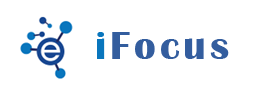
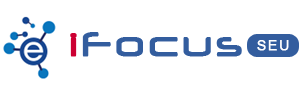
fix some details

Changed region(s): [[0.0, 0.1684, 1.0, 0.8421]]

diff --git a/app/scripts/detail.js b/app/scripts/detail.js
@@ -15,6 +15,9 @@
         ],
         function (ec) {
 
+            // Model predication dialog
+            var dialog;
+
             // DOM Elements
             var mainViewer = document.getElementById('main-viewer');
 
@@ -144,14 +147,23 @@
 
                 // TODO: query from database (x, y)
 
-                $.getJSON('../data/demo-model.json',function (json) {
-                    returnData.seriesData = json['result'];
-                    if (model !== undefined) {
-                        setGraphModel(model, returnData);
-                    } else {
-                        console.log("No model!!!");
-                    }
-                })
+                if (model === 'heatmap') {
+                    console.log(">>>"+model);
+                    setGraphModel(model, null);
+                } else {
+                    $.getJSON('../data/demo-model.json',function (json) {
+
+                        localStorage.setItem('currentData',JSON.stringify(json['result2']));//store data for bar graph
+
+                        returnData.seriesData = json['result'];
+
+                        if (model !== undefined) {
+                            setGraphModel(model, returnData);
+                        } else {
+                            console.log("No model!!!");
+                        }
+                    })
+                }
             }
 
             function refreshMainViewer() {
@@ -189,21 +201,34 @@
                     ecGraph.mainViewer.setOption(ecGraph.pieOption, {notMerger: true});
                     ecGraph.mainViewer.on(ecGraph.ecConfig.EVENT.CLICK, mainViewerClickHandler);
                 } else if (model ==='bar') {
-
-                    console.log(returnData.names);
                     ecGraph.barOption.xAxis[0].data = returnData.names;
-                    ecGraph.barOption.series[0].data = returnData['avgProduct'];
-                    ecGraph.barOption.series[1].data = returnData['avgCategory'];
+
+                    if (returnData['avgProduct'] === undefined) {
+                        ecGraph.barOption.series[0].name = "Share";
+                        ecGraph.barOption.series[0].data = returnData['seriesData'];
+                        ecGraph.barOption.series[1] = {};
+                    } else {
+                        ecGraph.barOption.series[0].data = returnData['avgProduct'];
+                        ecGraph.barOption.series[1].data = returnData['avgCategory'];
+                    }
+
                     ecGraph.mainViewer.setOption(ecGraph.barOption, {notMerger: true});
+                } else if (model == 'heatmap') {
+                    $('#main-viewer').hide();
+                    $('#main-viewer2').append('<img src="../images/heatmap-dmeo.jpg" width="700">');
                 } else {
 
                 }
             }
 
             function setHistoryPanel() {
-                $('#analysis-history').empty();
-                for(var i=0; i<operationHistory.length; i++){
-                    $('#analysis-history').append('<img src="../images/'+operationHistory[i]+'.png" class="img-rounded" height="90">');
+
+                var analysisHistory = $('#analysis-history');
+
+                analysisHistory.empty();
+                for(var i=0; i < operationHistory.length - 1; i++){
+                    analysisHistory.append('<div class="col-xs-2"><a href="#" class="thumbnail"><img src="../images/'+operationHistory[i]+
+                    '.png" height="100"></a></div>');
                 }
             }
 
@@ -213,6 +238,27 @@
             });
 
             furtherAnalysisOkBtn.click(faOkHandler);
+
+
+            dialog = $("#dialog-form").dialog({
+                autoOpen: false,
+                height: 300,
+                width: 280,
+                modal: true,
+                close: function() {
+                    form[0].rest();
+                },
+                buttons: {
+                    "Sure": function(){},
+                    Cancel: function(){dialog.dialog('close')}
+                }
+            });
+
+            $('#next-model-tip').button().on('click', function(e) {
+                dialog.dialog('open');
+            });
+
+
 
             // Event Handler
 
@@ -256,8 +302,22 @@
             }
 
             function modelSelectHandler(param) {
-                var data = $(this).attr('name');
-                // TODO: change current analysis view
+                var vars = getUrlParams();
+                var paramX = vars['x'],
+                    paramY = vars['y'];
+                var returnData = {
+                    names: [paramX, paramY],
+                    seriesData: []
+                };
+
+                var model = $(this).attr('name');
+
+                operationHistory.push(model);
+
+                returnData.seriesData = JSON.parse(localStorage.getItem('currentData'))["seriesData"];
+                console.log(returnData);
+                setGraphModel(model, returnData);
+
             }
 
             function faOkHandler() {

diff --git a/app/pages/detail.html b/app/pages/detail.html
@@ -4,12 +4,13 @@
     <meta charset="UTF-8">
     <title>iFocus - admin page</title>
     <link rel="stylesheet" href="../../bower_components/bootstrap/dist/css/bootstrap.min.css">
+    <link rel="stylesheet" href="../../bower_components/jquery-ui/themes/start/jquery-ui.css">
     <link rel="stylesheet" href="../styles/start.css">
 </head>
 <body>
 
 <nav class="navbar navbar-default navbar-fixed-top">
-    <div class="container">
+    <div class="container-fluid">
         <div class="navbar-header">
             <button type="button" class="navbar-toggle collapsed" data-toggle="collapse" data-target="#navbar" aria-expanded="false" aria-controls="navbar">
                 <span class="sr-only">Toggle navigation</span>
@@ -17,7 +18,7 @@
                 <span class="icon-bar"></span>
                 <span class="icon-bar"></span>
             </button>
-            <a class="navbar-brand" href="#">D & Intel Lab</a>
+            <a class="navbar-brand" href="#"><img src="../images/logo.png" width="316"></a>
         </div>
         <div id="navbar" class="collapse navbar-collapse">
             <ul class="nav navbar-nav">
@@ -39,13 +40,19 @@
                 <div class="panel-heading"><h3 class="panel-title">Analysis History</h3></div>
                 <div class="panel-body">
                     <div class="col-md-11" id="analysis-history">
-                        <!--<img src="../images/snake.png" class="img-rounded" height="90">-->
-                        <!--<img src="../images/force.png" class="img-rounded" height="90">-->
-                        <!--<img src="../images/line.png" class="img-rounded" height="90">-->
                     </div>
                     <div class="col-md-1">
-                        <img src="../images/add-icon.png" class="img-circle" height="90">
+                        <button class="thumbnail" id="next-model-tip">
+                            <img src="../images/add-icon.png" class="img-circle" style="opacity: 0.4;">
+                        </button>
                     </div>
+                </div>
+            </div>
+
+            <div id="dialog-form" title="Model predication">
+                <p>Use bar chart for the further analysis</p>
+                <div>
+                    <img src="../images/bar.png" class="thumbnail">
                 </div>
             </div>
         </div>
@@ -58,6 +65,8 @@
                 <div class="panel-heading"><h3 class="panel-title">Analysis Viewer</h3></div>
                 <div class="panel-body" id="main-viewer">
                     Panel content
+                </div>
+                <div class="panel-body" id="main-viewer2">
                 </div>
             </div>
         </div>
@@ -111,6 +120,8 @@
 
 <!--Javascript dependencies-->
 <script src="../../bower_components/jquery/dist/jquery.min.js"></script>
+<script src="../../bower_components/jquery-ui/ui/jquery-ui.js"></script>
+<script src="../../bower_components/bootstrap/dist/js/bootstrap.min.js"></script>
 <script src="../../bower_components/echarts/build/dist/echarts.js"></script>
 <script>
     require.config({

diff --git a/app/index.html b/app/index.html
@@ -11,7 +11,7 @@
 <body>
 
 <nav class="navbar navbar-default navbar-fixed-top">
-    <div class="container">
+    <div class="container-fluid">
         <div class="navbar-header">
             <button type="button" class="navbar-toggle collapsed" data-toggle="collapse" data-target="#navbar" aria-expanded="false" aria-controls="navbar">
                 <span class="sr-only">Toggle navigation</span>
@@ -19,7 +19,7 @@
                 <span class="icon-bar"></span>
                 <span class="icon-bar"></span>
             </button>
-            <a class="navbar-brand" href="#">D & Intel Lab</a>
+            <a class="navbar-brand" href="#"><img src="images/logo.png" width="316"></a>
         </div>
         <div id="navbar" class="collapse navbar-collapse">
             <ul class="nav navbar-nav">

diff --git a/app/scripts/start.js b/app/scripts/start.js
@@ -97,7 +97,7 @@
             }
 
             for (i = 0; i < modelList.length; i++) {
-                modelImageList.append('<div class="col-md-3"><a href="/pages/detail.html?model=' +
+                modelImageList.append('<div class="col-md-3"><a href="pages/detail.html?model=' +
                 modelList[i] + '"><img src="images/' + modelList[i] + '.png" class="img-rounded" alt="' + modelList[i] + '"></a></div>');
             }
 

diff --git a/app/styles/start.css b/app/styles/start.css
@@ -1,5 +1,9 @@
+a.navbar-brand {
+    padding-top: 5px;
+}
+
 #jumbotron {
-    margin-top: 8em;
+    margin-top: 10em;
     text-align: center;
 }
 
